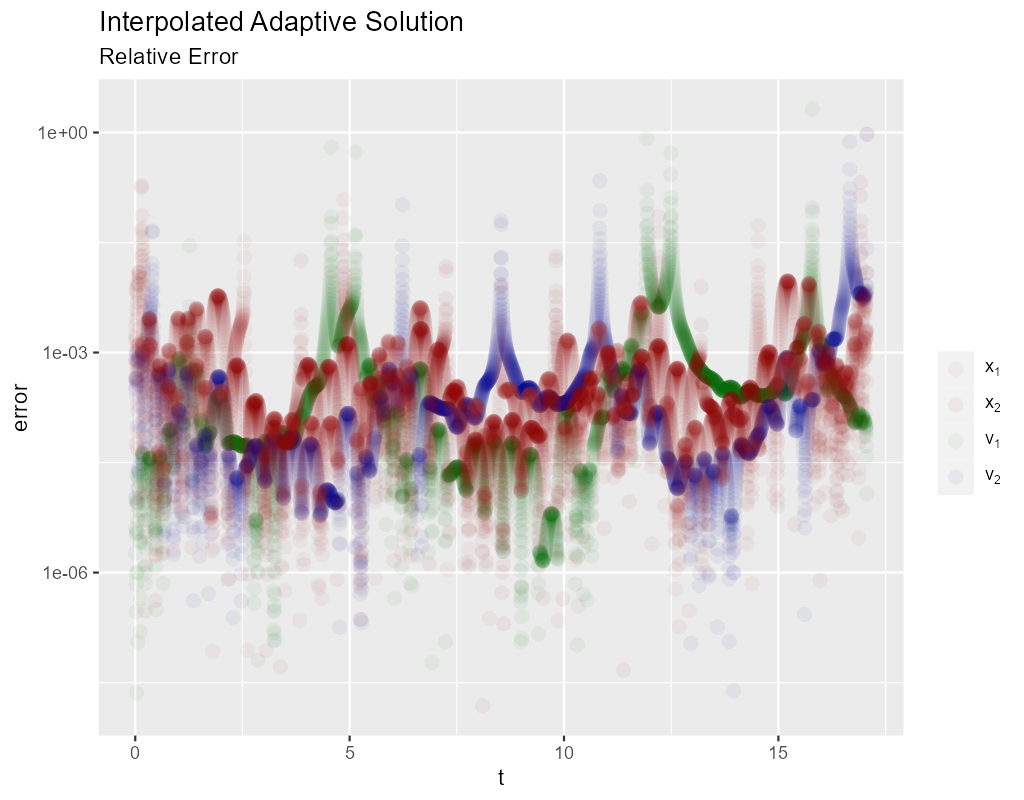
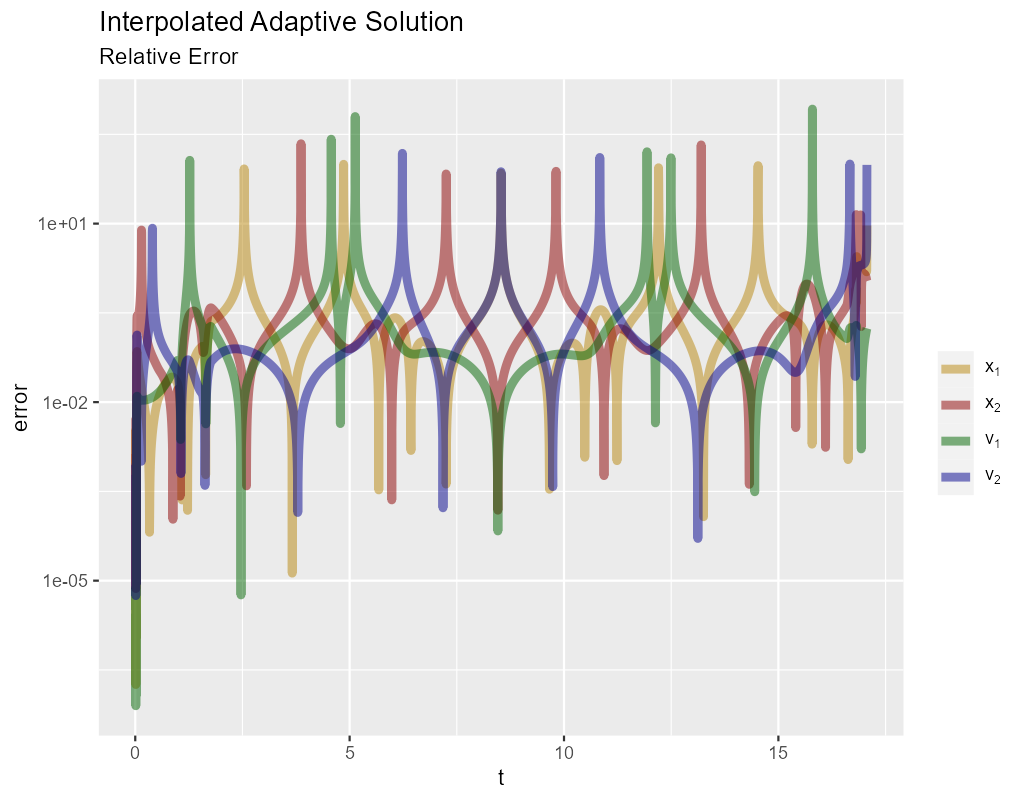
Updated hermite error graph

diff --git a/docs/ex_three_body.html b/docs/ex_three_body.html
@@ -3,7 +3,7 @@
 "http://www.w3.org/TR/xhtml1/DTD/xhtml1-strict.dtd">
 <html xmlns="http://www.w3.org/1999/xhtml" lang="en" xml:lang="en">
 <head>
-<!-- 2025-08-13 Wed 15:44 -->
+<!-- 2025-08-13 Wed 23:55 -->
 <meta http-equiv="Content-Type" content="text/html;charset=utf-8" />
 <meta name="viewport" content="width=1024, initial-scale=1" />
 <title>MRKISS Library Example</title>
@@ -267,12 +267,12 @@
 
 <tr>
 <td class="org-right"><b>Updated:</b></td>
-<td class="org-left"><i>2025-08-13 15:44:14</i></td>
+<td class="org-left"><i>2025-08-13 23:55:36</i></td>
 </tr>
 
 <tr>
 <td class="org-right"><b>Generated:</b></td>
-<td class="org-left"><i>2025-08-13 15:44:15</i></td>
+<td class="org-left"><i>2025-08-13 23:55:38</i></td>
 </tr>
 </tbody>
 </table>
@@ -368,7 +368,7 @@ In this section we produce the classical image of the solution.
 </p>
 
 
-<div id="org9f164c4" class="figure">
+<div id="orgd2b8adf" class="figure">
 <p><img src="pics/three_body.png" alt="three_body.png" />
 </p>
 </div>
@@ -429,7 +429,7 @@ More common is the need to "line up" two solutions on the same \(t\) values for 
 </p>
 
 
-<div id="org55fa2da" class="figure">
+<div id="orge96cd46" class="figure">
 <p><a href="pics/three_body_interp_adapt_path.png"><img src="pics/three_body_interp_adapt_path.png" alt="three_body_interp_adapt_path.png" /></a>
 </p>
 </div>
@@ -451,7 +451,7 @@ Less common is linear interpolation:
 </p>
 
 
-<div id="orgd34750e" class="figure">
+<div id="org2353592" class="figure">
 <p><a href="pics/three_body_lin_interp_adapt_path.png"><img src="pics/three_body_lin_interp_adapt_path.png" alt="three_body_lin_interp_adapt_path.png" /></a>
 </p>
 </div>
@@ -474,21 +474,9 @@ errors:
 </p>
 
 
-<div id="org9622b52" class="figure">
+<div id="orgabcf086" class="figure">
 <p><a href="pics/three_body_interp_adapt_error.png"><img src="pics/three_body_interp_adapt_error.png" alt="three_body_interp_adapt_error.png" /></a>
 </p>
-</div>
-
-<p>
-The code for the above images:
-</p>
-
-<div class="org-src-container">
-<pre class="src src-f90"><span style="color: #00ffff;">call</span> <span style="color: #00fa9a; font-weight: bold;">seq</span>(status, sol2(1,:), from_o=0.0_rk, to_o=t_end);                                        <span style="color: #ffa500;">! </span><span style="color: #ff7f24;">Create new t values</span>
-<span style="color: #00ffff;">print</span> <span style="color: #fa8072;">'(a)'</span>, status_to_message(status)
-<span style="color: #00ffff;">call</span> <span style="color: #00fa9a; font-weight: bold;">interpolate_solution</span>(status, istats2, sol2, sol1, eq, param, num_src_pts_o=istats1(1)) <span style="color: #ffa500;">! </span><span style="color: #ff7f24;">Preform the interpolation</span>
-<span style="color: #00ffff;">call</span> <span style="color: #00fa9a; font-weight: bold;">print_solution</span>(status, sol2, filename_o=<span style="color: #fa8072;">"three_body_steps_adapt_std_interpolated.csv"</span>)
-</pre>
 </div>
 </div>
 </div>
@@ -512,7 +500,7 @@ In the following image we see the unsatisfactory result of using a 5th order sol
 </p>
 
 
-<div id="orge10e9be" class="figure">
+<div id="org572f91c" class="figure">
 <p><a href="pics/three_body-dp.png"><img src="pics/three_body-dp.png" alt="three_body-dp.png" /></a>
 </p>
 </div>
@@ -534,7 +522,7 @@ The code for the above solution is identical except for a change in Runge-Kutta 
 <h2 id="adaptiveylim"><span class="section-number-2">5.</span> Adaptive Solution With More Steps For A Nice Plot</h2>
 <div class="outline-text-2" id="text-adaptiveylim">
 
-<div id="org46c1d30" class="figure">
+<div id="org3e61598" class="figure">
 <p><img src="pics/three_body_ylen.png" alt="three_body_ylen.png" />
 </p>
 </div>
@@ -606,7 +594,7 @@ vector (the first two components) and not the velocity components (the last two 
 </p>
 
 
-<div id="org41c95a3" class="figure">
+<div id="orgc10b1c8" class="figure">
 <p><img src="pics/three_body_fixed_pos.png" alt="three_body_fixed_pos.png" />
 </p>
 </div>
@@ -616,7 +604,7 @@ Below are the velocity components plotted in the same manner as the position com
 </p>
 
 
-<div id="org7b8821b" class="figure">
+<div id="org1818475" class="figure">
 <p><img src="pics/three_body_fixed_vel.png" alt="three_body_fixed_vel.png" />
 </p>
 </div>
@@ -663,7 +651,7 @@ function.  In this example we keep it simple, and just use the
 </p>
 
 
-<div id="org37e9ba4" class="figure">
+<div id="org74f8cfd" class="figure">
 <p><img src="pics/three_body_maxt.png" alt="three_body_maxt.png" />
 </p>
 </div>
@@ -715,7 +703,7 @@ We wire up this subroutine to <code>steps_adapt_etab()</code> via the <code>step
 <h2 id="moonsatorb"><span class="section-number-2">8.</span> Satellite &amp; Moon Orbit Intersection</h2>
 <div class="outline-text-2" id="text-moonsatorb">
 
-<div id="orgf751ebe" class="figure">
+<div id="org48bc8d6" class="figure">
 <p><img src="pics/three_body_moon.png" alt="three_body_moon.png" />
 </p>
 </div>
